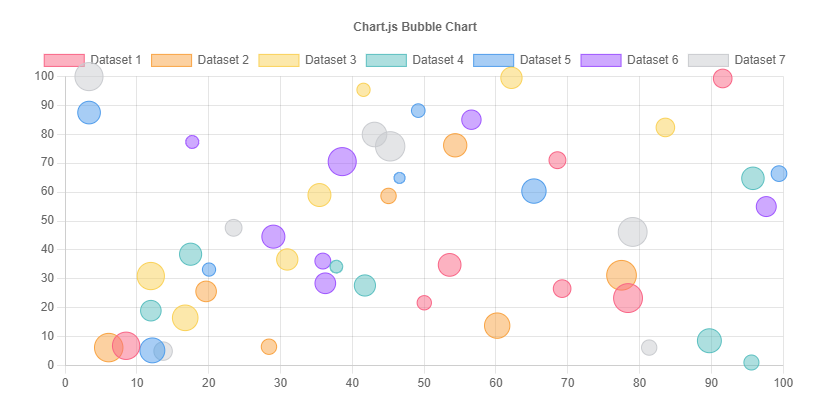
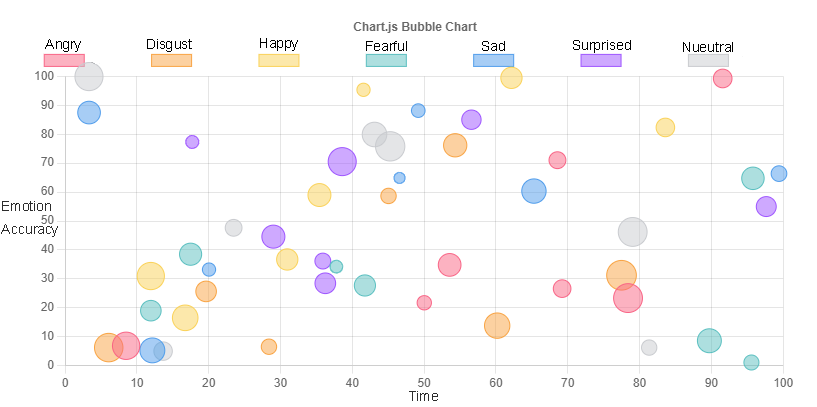
working on readme image path test

diff --git a/README.md b/README.md
@@ -19,7 +19,7 @@ Heroku link of progress so far: [EXPRESS-yoURSELF](https://react-express-yoursel
 - [Usage](#usage)
 - [Planning](#planning)
 - [License](#license)
-- [Future Plans](#future)
+- [Future Plans](#future-plans)
 - [Contributing](#contributing)
 - [Questions](#questions)
 - [Presentation](#presentation)
@@ -61,3 +61,14 @@ Once I had all my plans down I [story boarded](https://drive.google.com/drive/fo
 ## License
 
 This repository is licensed under the [GPL-3.0](https://opensource.org/licenses/GPL-3.0) license.
+
+---
+
+## Future Plans
+
+- What does the future hold for EXPRESS-yoURSELF?\
+  Well first of all I would like to go through and restyle the whole app and give it a more professional look my styling started with the vision that the app was going to be more game related but now that the vision has changed so shall tha appearance.\
+- Next the key feature I need to implement is for the landmark detection to detect emotions. through my research i am confident I can achieve this.
+- once emotions are detected i can focus on recording that data and translating it to a chart using [chart.js](https://www.chartjs.org/) mock up of the chart below: https
+
+![](screenshots\chart.png)
